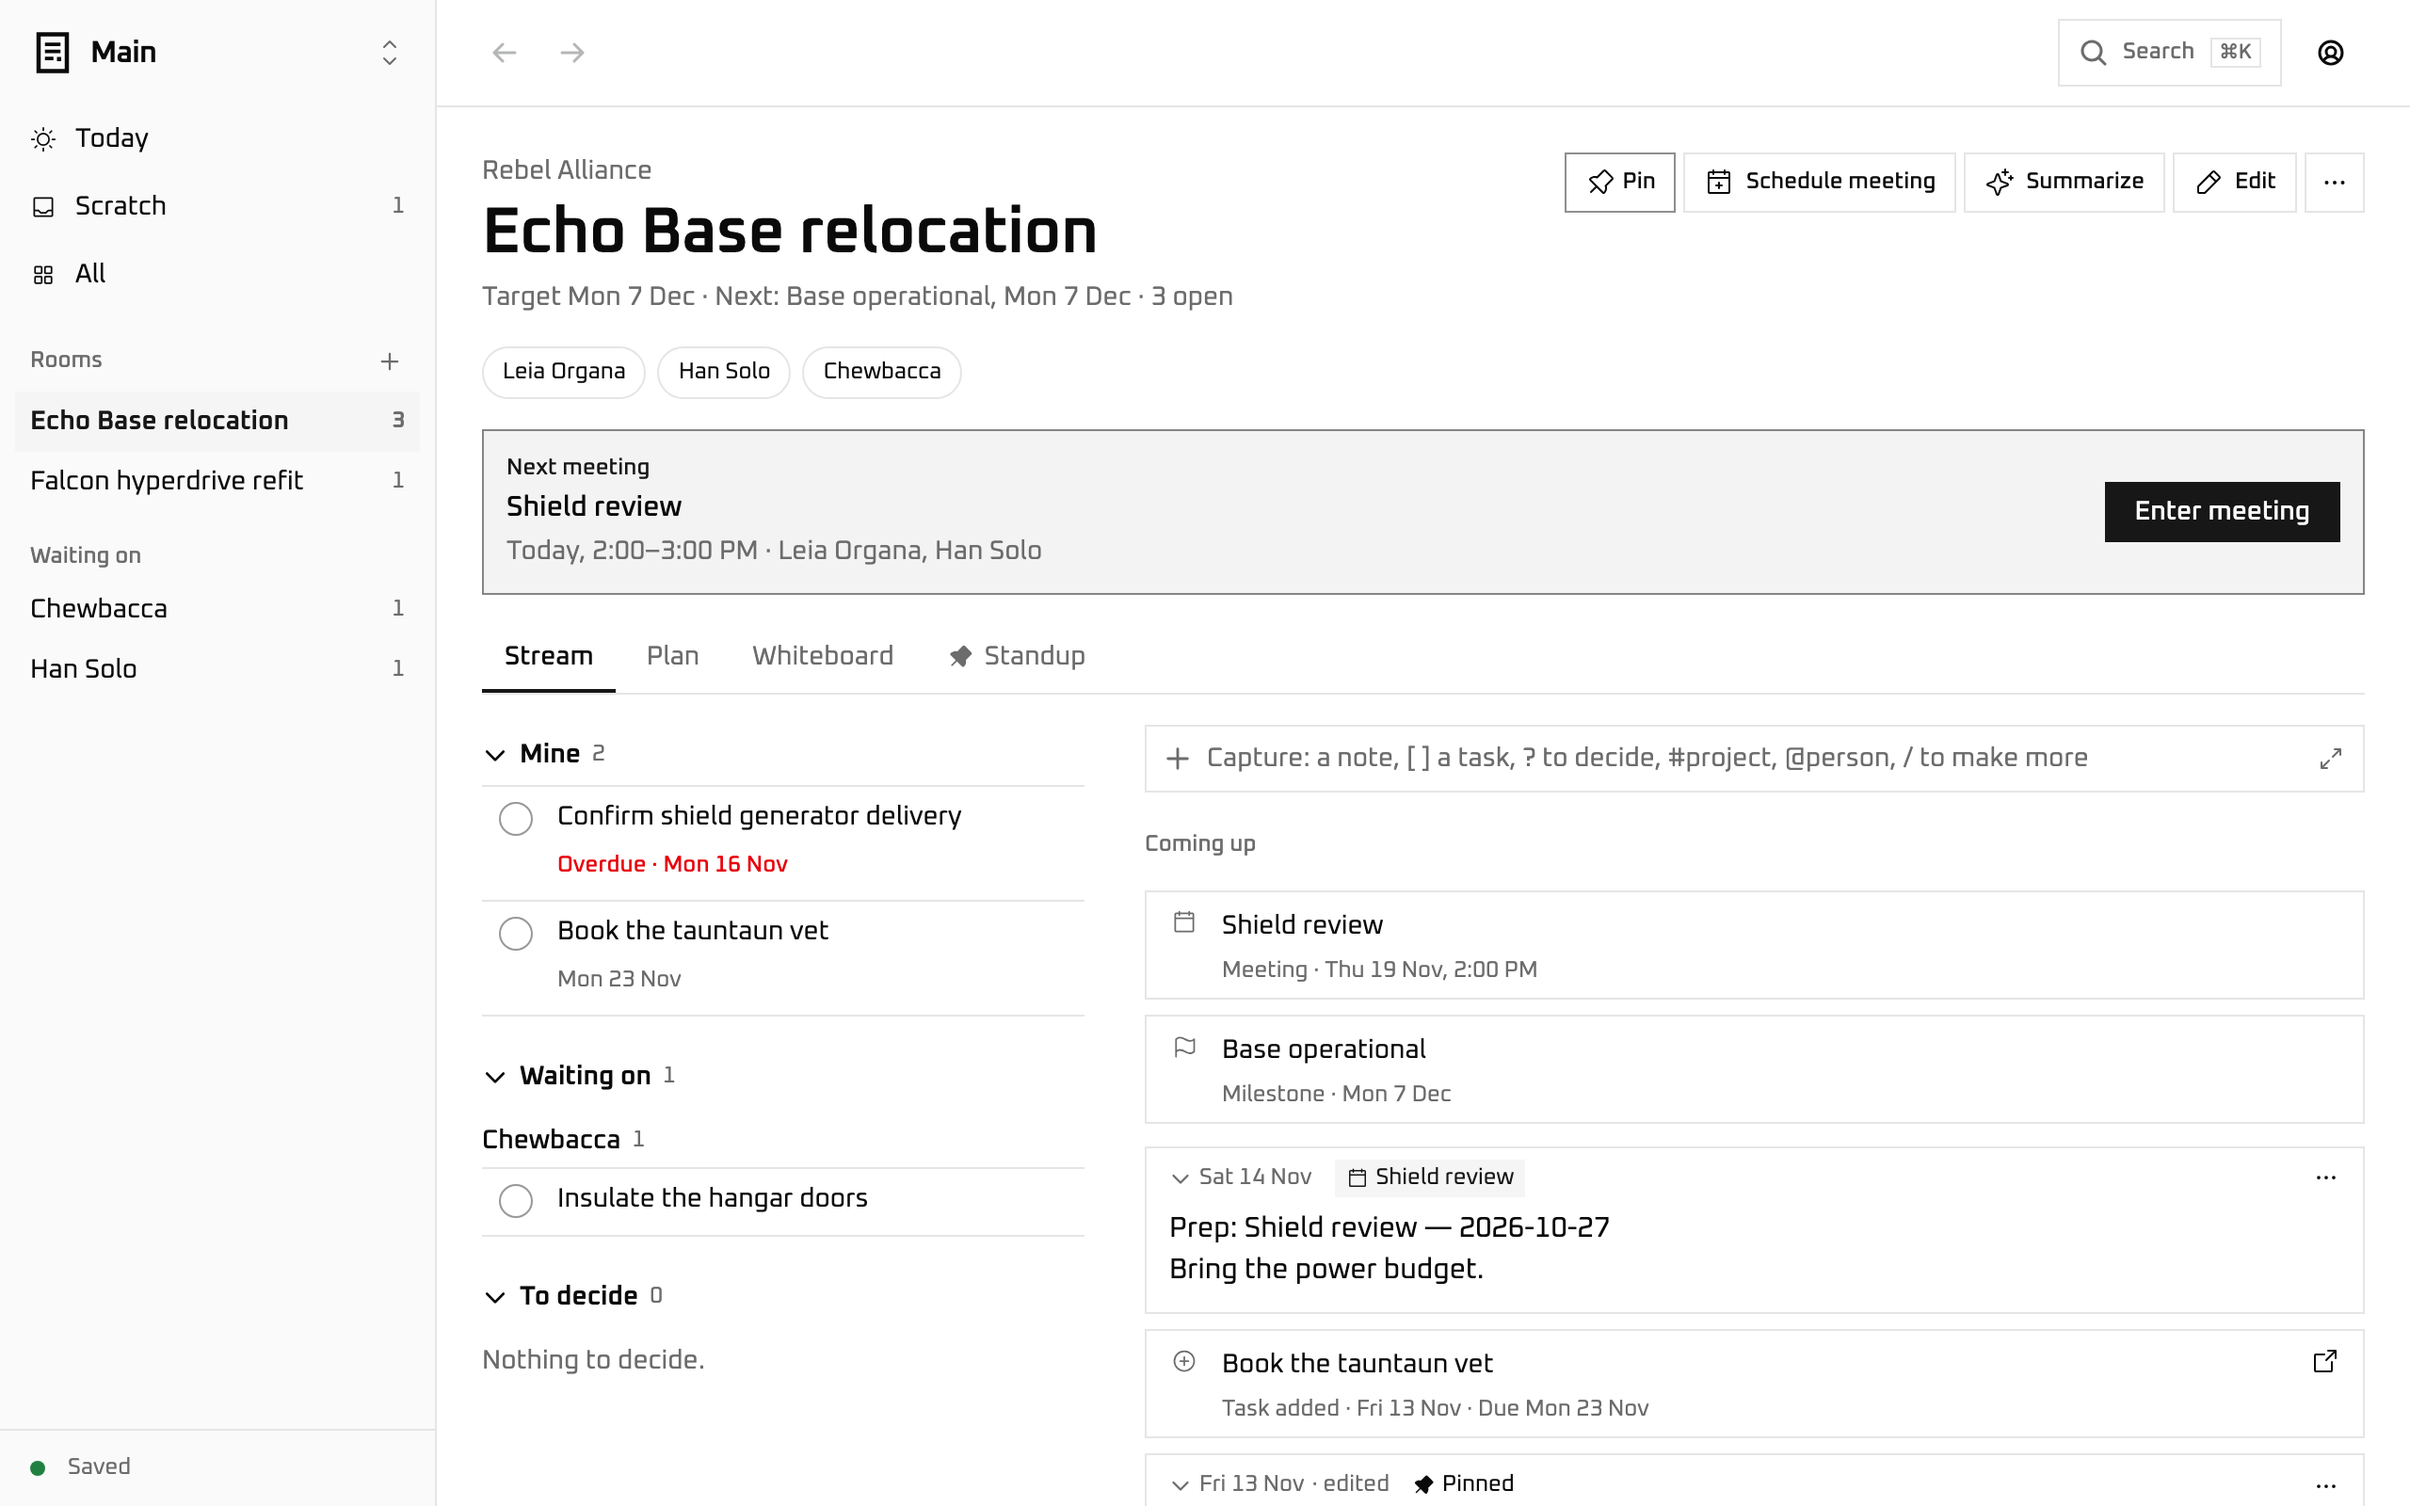
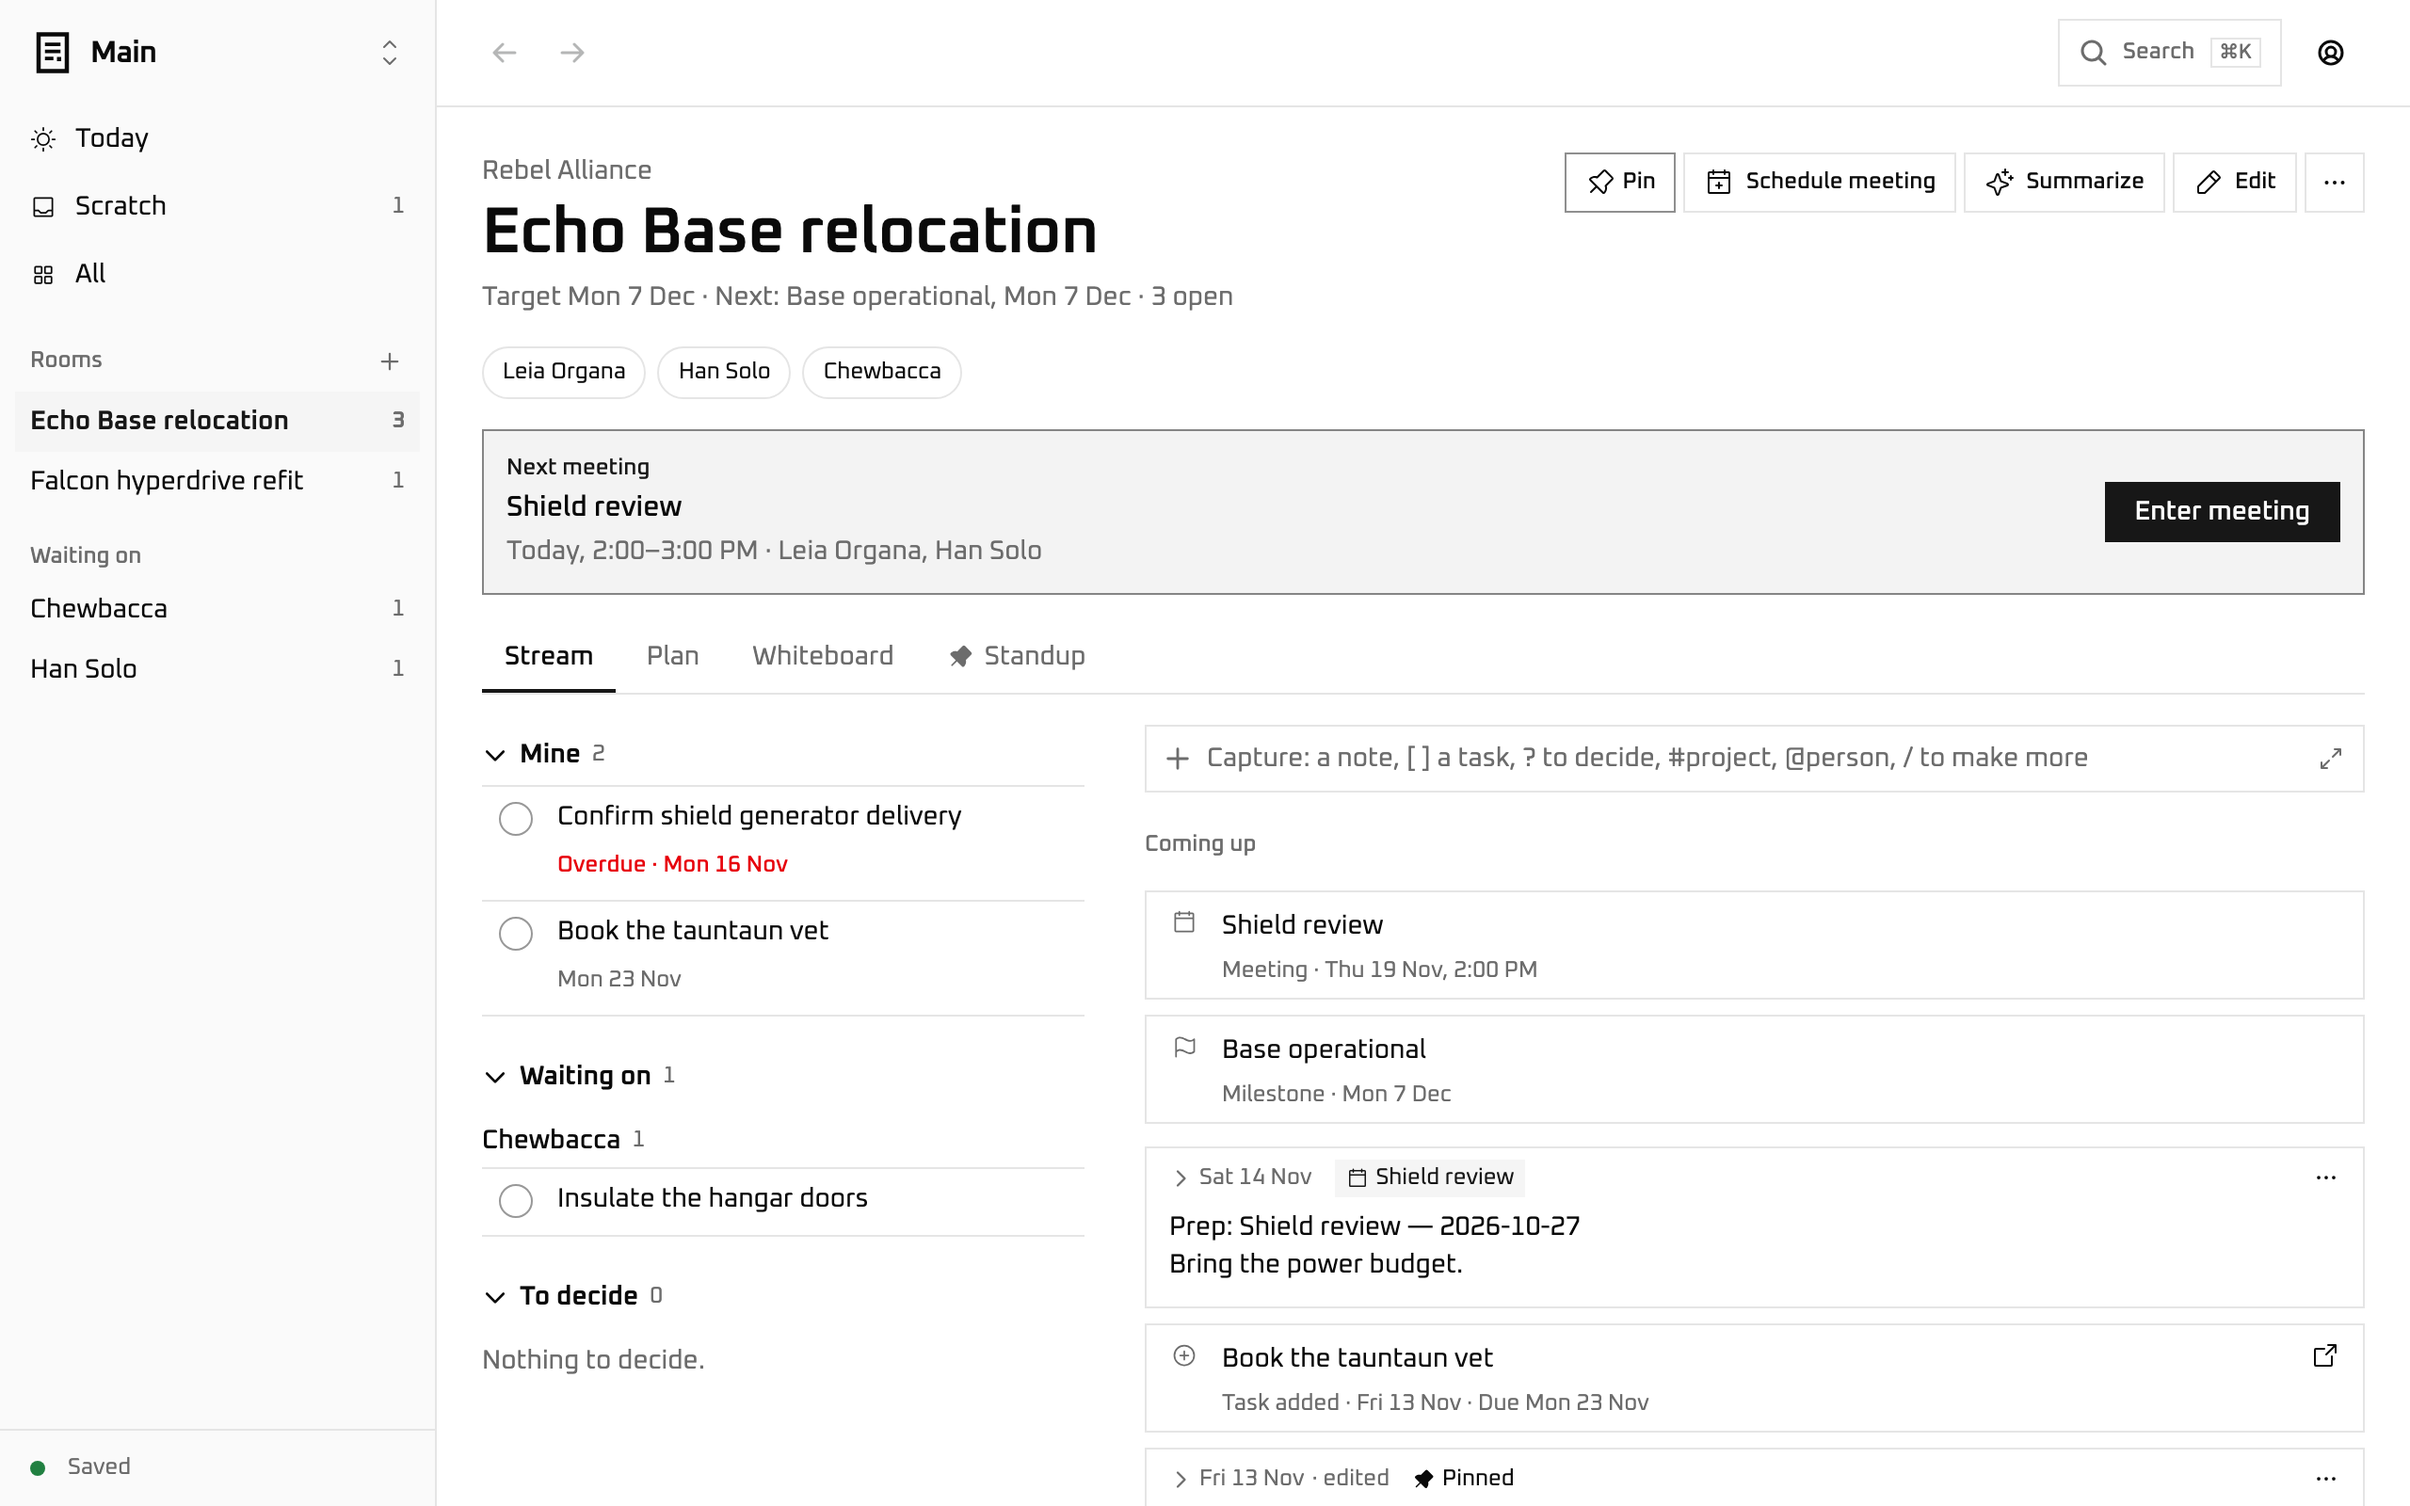
feat(rooms): start notes in a room's stream closed
A room's stream opened every note in full. Notes now start as compact
two-line previews, like everywhere else; the toggle or a click on the
preview opens one, and a ?note= link still opens its own note.

Claude-Session: https://claude.ai/code/session_01QW4EewXJfnCEsAsHH2kpw3

Changed region(s): [[0.4688, 0.8125, 0.9688, 1.0], [0.9375, 0.875, 0.9688, 0.9062]]

diff --git a/e2e/project-room.spec.ts b/e2e/project-room.spec.ts
@@ -129,7 +129,15 @@ test('the room: header, state line, people, Next meeting and the stream', async 
     'added:t-2',
     'added:t-1',
   ]);
-  // Notes are open, with their checkboxes.
+  // Notes start closed, as previews; the toggle opens one.
+  const standup = stream(page).locator('[data-note-id="n-1"]');
+  const toggle = standup.getByRole('button', { name: /^Note from / });
+  await expect(toggle).toHaveAttribute('aria-expanded', 'false');
+  await expect(
+    stream(page).getByRole('checkbox', { name: 'Check the heaters' }),
+  ).toBeHidden();
+  await toggle.click();
+  await expect(toggle).toHaveAttribute('aria-expanded', 'true');
   await expect(
     stream(page).getByRole('checkbox', { name: 'Check the heaters' }),
   ).toBeVisible();
@@ -140,11 +148,18 @@ test('the room: header, state line, people, Next meeting and the stream', async 
 
 test('a note’s checkbox ticks in place in the stream', async ({ page }) => {
   await openLive(page, '/projects/p-echo');
+  const openStandup = () =>
+    stream(page)
+      .locator('[data-note-id="n-1"]')
+      .getByRole('button', { name: /^Note from / })
+      .click();
+  await openStandup();
   const box = stream(page).getByRole('checkbox', { name: 'Check the heaters' });
   await expect(box).not.toBeChecked();
   await box.click();
   await expect(box).toBeChecked();
   await page.reload();
+  await openStandup();
   await expect(
     stream(page).getByRole('checkbox', { name: 'Check the heaters' }),
   ).toBeChecked();

diff --git a/src/components/rooms/RoomStream.tsx b/src/components/rooms/RoomStream.tsx
@@ -159,7 +159,6 @@ function StreamEntry({
           note={item.note}
           state={state}
           chips={{ meeting: true, task: true }}
-          reveal
           arrive={item.note.id !== openAtTop}
         />
       );

diff --git a/docs/SPEC.md b/docs/SPEC.md
@@ -233,7 +233,7 @@ All (`/all`, #337, #338) replaces the Tasks, Notes, Meetings, Projects and Archi
 ### Rooms
 
 A room is one project's or one person's page (#334, #335), or a project seen through one person.
-- **Project room** (`/projects/<id>`): the header has the org, the name and a state line (health, status when not active, target date, next milestone, how many loops are open), with **Pin**, **Schedule meeting**, **Edit** and **More** (Summarize, Pause, Mark active or Mark done, Move to…, Save as template, Archive, Delete). Under it: the people to narrow the room to (`?person=`), the **Next meeting** card with Enter meeting, and three tabs. **Stream** has the three lanes beside one stream of everything attached (Coming up first, then notes, tasks added and done, meetings and milestones, newest first, older ones behind Show older), with the capture line on top, preset to the project. Notes are open and their checkboxes tick in place. **Plan** (`/projects/<id>/plan`) has the description, details and health, the timeline bar, milestones, members, links and Activity. **Whiteboard** (`/projects/<id>/whiteboard`) is the project's board. Picking a person narrows the lanes and the stream to what touches them; capture then mentions them (on a task, assigns them), and Pin pins the pair.
+- **Project room** (`/projects/<id>`): the header has the org, the name and a state line (health, status when not active, target date, next milestone, how many loops are open), with **Pin**, **Schedule meeting**, **Edit** and **More** (Summarize, Pause, Mark active or Mark done, Move to…, Save as template, Archive, Delete). Under it: the people to narrow the room to (`?person=`), the **Next meeting** card with Enter meeting, and three tabs. **Stream** has the three lanes beside one stream of everything attached (Coming up first, then notes, tasks added and done, meetings and milestones, newest first, older ones behind Show older), with the capture line on top, preset to the project. Notes are compact rows, closed until opened (a `?note=` link opens its own). **Plan** (`/projects/<id>/plan`) has the description, details and health, the timeline bar, milestones, members, links and Activity. **Whiteboard** (`/projects/<id>/whiteboard`) is the project's board. Picking a person narrows the lanes and the stream to what touches them; capture then mentions them (on a task, assigns them), and Pin pins the pair.
 - **Person room** (`/people/<id>`), the 1:1 prep: the header has the orgs of their projects, the name and a state line (role, how many projects, how many loops are open), with **Pin**, **Schedule meeting**, **Edit** and **Remove**. Under it: their projects to narrow to (`?project=`, the same items as the project room narrowed to them), the Next meeting card, then three lanes beside one stream. **You owe** is your open tasks that touch them. **They owe you** is what waits on them (assigned to them or blocked on them), then anything else of theirs that waits on someone. **To discuss** is the to-decide tasks that touch them and the open topics of their meetings ahead. The stream has the notes that mention them, the tasks that touch them and the meetings they attend, newest first. Capture there mentions them on a note and assigns them a task.
 - **Pinned notes** (#377, `roomPinnedNotes()`): a project room's tab row lists each pinned note of the project after Whiteboard; a person room has a row of the pinned notes that mention them (any project), and no row when there are none. Narrowing the room does not change them. Each is a link with a pin icon, labeled by its first line (`pinnedLabel()`: `notePreview()`'s first line, at most 40 characters), oldest first. Choosing one opens it in place at the top of the room, under the row, on whatever tab is current: the rendered note (checkboxes save) with **Edit** (the composer in place), **Unpin** (with Undo) and **Close**. The address keeps it as `?note=<id>`, the same key that opens a row elsewhere, so Back closes it and a link opens it; the stream's own row for that note stays as it is. Esc or Close closes it and puts focus back on its link. Choosing the open one again closes it. There is no limit on pins: those that do not fit the row go under a **Pinned** menu at its end (`pinnedFit()`), so the row never scrolls sideways; on a phone the menu shows the pin and the count. Pin and Unpin on any note row change the row live; there is no op of its own (`pinNote`).
 - Settings → Rooms sets each room's lanes, shown and ordered, the tab a project room opens on, and the person room's lane names. `shared/rooms.ts` and `shared/stream.ts` hold the rules.
@@ -266,7 +266,7 @@ The common path never opens a modal: Enter adds, a checkbox closes, click drills
 
 **Make task from a note.** Selecting text inside a note body shows a floating "Make task" button above the selection; clicking creates a task titled with the first line of the selection (max 200 chars) in the note's project and records `sourceNoteId`. A footer button does the same, falling back to a prompt prefilled with the note's first line.
 
-**Compact note rows** (#273). In meeting mode, in a task's and a meeting's panel, and on All, each note is a compact row (`NoteRow`): a line of meta (relative time, "edited", "Pinned"; on All also its room and its meeting or task chip) over the note's first **two lines** as plain text (`notePreview()`: Markdown marks stripped, mentions as `@Name`, list items as `•`, `1.`, `☐`, `☑`). The row is a disclosure: its toggle ("Note from <when>", `aria-expanded`) or a click on the preview opens it in place to the whole rendered note, where checkboxes save and selected text offers Make task; the toggle closes it again. Open or closed is the row's own and is not saved. Its actions are in a ⋯ menu ("More for note from <when>"): **Edit** (the composer in place), **Pin** / **Unpin**, **Make task** (asks for the title, from the first line), **Summarize** (when summaries are on), **Save as template**, then **Delete** (with Undo) after a rule. The toggle and the menu button are 44px on touch. `?note=<id>` scrolls to the row, opens it and rings it, except in a room where the note is pinned: there it opens at the top of the room (see [Rooms](#rooms)). A room's stream shows its notes open. **Pin** also puts the note in its room's tab row.
+**Compact note rows** (#273). In meeting mode, in a task's and a meeting's panel, and on All, each note is a compact row (`NoteRow`): a line of meta (relative time, "edited", "Pinned"; on All also its room and its meeting or task chip) over the note's first **two lines** as plain text (`notePreview()`: Markdown marks stripped, mentions as `@Name`, list items as `•`, `1.`, `☐`, `☑`). The row is a disclosure: its toggle ("Note from <when>", `aria-expanded`) or a click on the preview opens it in place to the whole rendered note, where checkboxes save and selected text offers Make task; the toggle closes it again. Open or closed is the row's own and is not saved. Its actions are in a ⋯ menu ("More for note from <when>"): **Edit** (the composer in place), **Pin** / **Unpin**, **Make task** (asks for the title, from the first line), **Summarize** (when summaries are on), **Save as template**, then **Delete** (with Undo) after a rule. The toggle and the menu button are 44px on touch. `?note=<id>` scrolls to the row, opens it and rings it, except in a room where the note is pinned: there it opens at the top of the room (see [Rooms](#rooms)). A room's stream shows its notes closed too. **Pin** also puts the note in its room's tab row.
 
 ### Keyboard
 

diff --git a/CHANGELOG.md b/CHANGELOG.md
@@ -58,6 +58,9 @@ changes the format says so here under **Export format**.
 
 ### Changed
 
+- Notes in a room's stream start closed, as two-line previews. Open one
+  with its toggle or a click on the preview; a link to a note still
+  opens it.
 - The note editor shows a note formatted as you write it: headings,
   lists, checklists you can tick, bold, italic, code, links, quotes,
   dividers, code blocks and mentions as name chips, with no Markdown on
